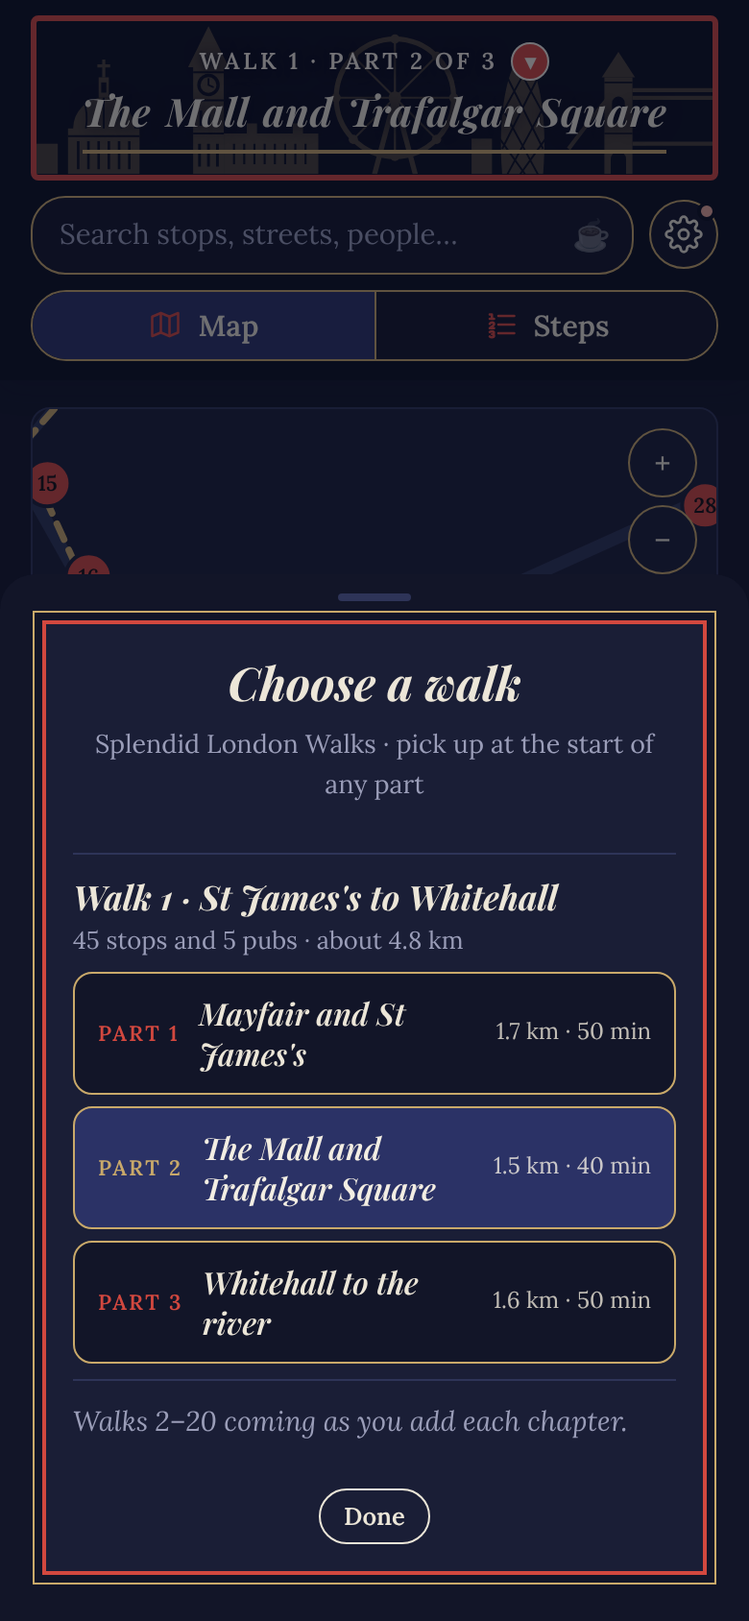
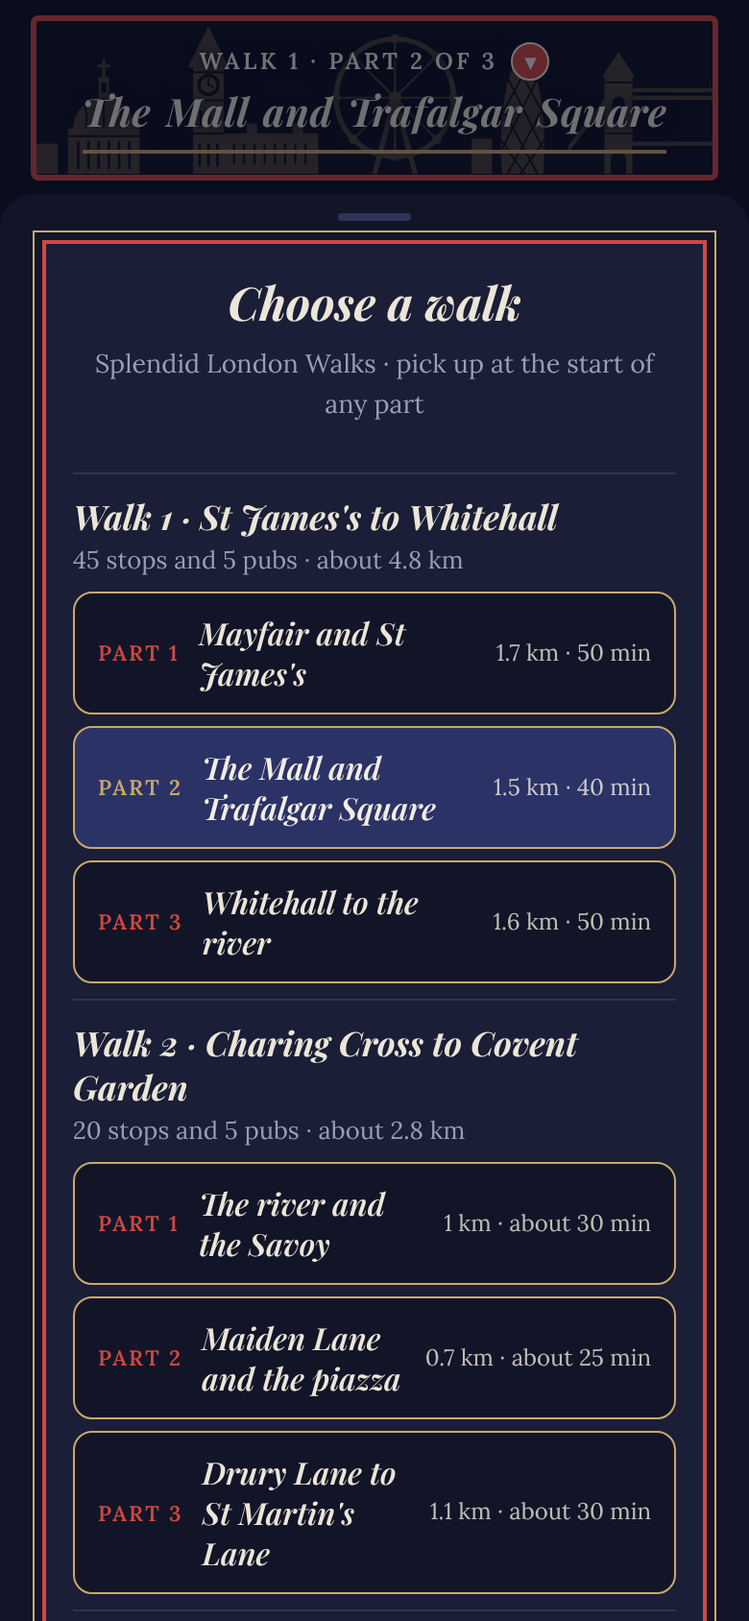
Walk 2: Charing Cross to Covent Garden, and switching between walks
Claude-Session: https://claude.ai/code/session_01EQX7ZzWVGJJBBEuSAX8vMB

Changed region(s): [[0.0308, 0.1232, 0.9846, 1.0], [0.7692, 0.5545, 0.8615, 0.5853], [0.8923, 0.5853, 0.9231, 0.6161]]

diff --git a/index.html b/index.html
@@ -719,14 +719,80 @@ const WALKS = [{
   ],
   parts:[{from:0,title:"Mayfair and St James's",km:1.7},{from:22,title:"The Mall and Trafalgar Square",km:1.5},{from:35,title:"Whitehall to the river",km:1.6}],
   route:[[51.50693,-0.14288],[51.50716,-0.14175],[51.5074,-0.14105],[51.508,-0.14112],[51.5091,-0.14198],[51.5099,-0.1425],[51.5103,-0.1428],[51.5105,-0.14252],[51.5107,-0.14255],[51.51128,-0.14045],[51.5109,-0.1402],[51.51045,-0.13965],[51.5103,-0.1395],[51.5101,-0.14],[51.50998,-0.14042],[51.50815,-0.13958],[51.50805,-0.1394],[51.5083,-0.1384],[51.50815,-0.13895],[51.50776,-0.13879],[51.50715,-0.13965],[51.50698,-0.1394],[51.50639,-0.13897],[51.50587,-0.1385],[51.50573,-0.13832],[51.50562,-0.13818],[51.505,-0.1385],[51.5054,-0.1378],[51.50572,-0.13772],[51.5054,-0.1378],[51.50595,-0.136],[51.5054,-0.1373],[51.50365,-0.1368],[51.505,-0.13345],[51.5058,-0.13165],[51.5063,-0.1318],[51.5069,-0.1321],[51.50705,-0.1323],[51.5075,-0.1311],[51.50781,-0.13045],[51.50835,-0.12925],[51.50776,-0.12792],[51.5077,-0.12725],[51.50775,-0.128],[51.50735,-0.1288],[51.5068,-0.12866],[51.5064,-0.1292],[51.5068,-0.12866],[51.50734,-0.12765],[51.50617,-0.1269],[51.50628,-0.126],[51.5063,-0.12575],[51.50545,-0.12565],[51.50535,-0.12665],[51.50455,-0.12645],[51.50482,-0.1264],[51.50486,-0.126],[51.5048,-0.1243],[51.50505,-0.1237],[51.5064,-0.1234],[51.50678,-0.123],[51.507,-0.1236],[51.50765,-0.1248],[51.50737,-0.12518],[51.50765,-0.1248],[51.50761,-0.12473]]
+},{
+  id:2,
+  title:"A Tremendous Ramble from Charing Cross to Covent Garden", short:"Charing Cross to Covent Garden",
+  pages:"38–50", start:"Charing Cross station, top of Villiers Street", end:"The Salisbury, St Martin's Lane",
+  theme:"Riverside gardens, the Savoy, theatreland and Covent Garden",
+  gaps:[],
+  stops:[
+   {k:"1",name:"York Place (Formerly Of Alley)",page:38,lat:51.50854,lng:-0.12455,photo:42,tags:"Villiers Street alley street sign Duke of Buckingham George Villiers",note:"A tiny alley with a curious sign. The Duke of Buckingham wanted every word of his name in the local streets, right down to 'of'."},
+   {k:"2",name:"Gordon's Wine Bar",page:38,lat:51.50794,lng:-0.12331,photo:42,tags:"wine bar cellars Kipling Free Vintners Embankment",note:"Said to be London's oldest wine bar, in candlelit cellars that were once a riverside warehouse. Kipling lodged upstairs."},
+   {k:"3",name:"Old street sign",page:39,lat:51.50800,lng:-0.12318,tags:"sign before 1917",note:"A street sign from before 1917, still hanging next to the modern one."},
+   {k:"4",name:"York House Watergate",page:39,lat:51.50814,lng:-0.12289,photo:42,tags:"watergate 1626 Duke of Buckingham river Thames",note:"A 1620s gateway that once opened straight onto the Thames, before the Embankment pushed the river back."},
+   {k:"5",name:"Victoria Embankment Gardens",page:39,lat:51.50822,lng:-0.12180,tags:"gardens Bazalgette Great Stink sewers Robert Burns Imperial Camel Corps",note:"Gardens on land reclaimed when Bazalgette built the sewers after the Great Stink. Look for Robert Burns and the soldier on a camel."},
+   {k:"6",name:"Cleopatra's Needle",page:39,lat:51.50851,lng:-0.12031,photo:42,tags:"obelisk Egypt sphinxes time capsule shrapnel camel benches",note:"An Egyptian obelisk far older than Cleopatra, brought to London in 1878 after a deadly storm at sea. The sphinxes face the wrong way."},
+   {k:"7",name:"Carting Lane sewer gas lamp",page:42,lat:51.50972,lng:-0.12069,photo:42,tags:"lamp sewer gas Joseph Webb Farting Lane",note:"London's last sewer gas lamp, still burning 'residual bio-gas'. The author calls it Farting Lane."},
+   {k:"8",name:"Savoy Steps",page:42,lat:51.51036,lng:-0.11972,tags:"Bob Dylan Subterranean Homesick Blues video Savoy Hill chapel",note:"The dead end where Bob Dylan flipped his word cards for 'Subterranean Homesick Blues', one of the first pop videos."},
+   {k:"9",name:"The Savoy",page:42,lat:51.51055,lng:-0.12060,photo:49,tags:"hotel Kaspar cat 13 afternoon tea drive on the right taxi",note:"The grand hotel with Kaspar, a wooden cat who joins tables of 13, and the one street in Britain where traffic drives on the right."},
+   {k:"10",name:"Bull Inn Court",page:43,lat:51.51008,lng:-0.12251,tags:"alley Vaudeville Theatre ghost William Terriss Adelphi",note:"A narrow alley off the Strand, said to be haunted by a murdered actor from the Adelphi."},
+   {k:"nellgwynne",pub:true,name:"The Nell Gwynne",page:43,lat:51.51019,lng:-0.12279,tags:"pub tiny theatrical Bull Inn Court",note:"A tiny, characterful pub named after Charles II's favourite. Mind the steep steps down to the loo."},
+   {k:"11",name:"Rules",page:43,lat:51.51083,lng:-0.12317,tags:"restaurant oldest 1798 game Downton Abbey Edward VII Lillie Langtry Maiden Lane",note:"London's oldest restaurant (1798): game birds, film crews, and Edward VII's secret door for Lillie Langtry."},
+   {k:"12",name:"St Paul's Church (the Actors' Church)",page:44,lat:51.51160,lng:-0.12350,photo:49,tags:"church Inigo Jones street performers piazza Punch and Judy My Fair Lady",note:"Inigo Jones's Actors' Church. Its blocked-up front is the backdrop to the famous street-performer pitch."},
+   {k:"13",name:"Russell House (43 King Street)",page:44,lat:51.51213,lng:-0.12393,photo:49,tags:"oldest building 1716 Middle Earth Club Bowie Marc Bolan T-Rex",note:"The oldest building in Covent Garden (1716). In the 1960s its club hosted Bowie, Pink Floyd and T-Rex."},
+   {k:"14",name:"Night watchman's hut",page:44,lat:51.51160,lng:-0.12425,photo:49,tags:"churchyard blue hut grave robbers resurrection men John Thaw bench",note:"The little blue hut where a watchman guarded the graves from body snatchers."},
+   {k:"15",name:"4 Henrietta Street",page:45,lat:51.51127,lng:-0.12301,tags:"Lawrence of Arabia RAF Biggles W E Johns Jane Austen market sandwich",note:"Where Lawrence of Arabia tried to join the RAF under a false name and was turned away by the author of Biggles."},
+   {k:"16",name:"Theatre Royal Drury Lane",page:46,lat:51.51285,lng:-0.12037,tags:"theatre steal my thunder John Dennis Nell Gwynne Charles II",note:"Where 'steal my thunder' was born. Charles II waited for Nell Gwynne in the pub across the road."},
+   {k:"nellolddrury",pub:true,name:"The Nell of Old Drury",page:46,lat:51.51261,lng:-0.12059,tags:"pub tunnel Nell Gwynne Catherine Street",note:"The small pub opposite the theatre, linked by legend to Nell Gwynne's secret tunnel."},
+   {k:"17",name:"Royal Opera House",page:46,lat:51.51292,lng:-0.12205,photo:49,tags:"opera ballet balcony limelight Macready Margot Fonteyn",note:"Home of the Royal Ballet and Opera, with a public balcony over the piazza. The origin of 'in the limelight'."},
+   {k:"18",name:"Bow Street Magistrates' Court",page:46,lat:51.51339,lng:-0.12179,tags:"court Henry Fielding Bow Street Runners bobbies Peelers police museum",note:"The old court where Henry Fielding founded the Bow Street Runners. Now a hotel with a small police museum."},
+   {k:"lambflag",pub:true,name:"The Lamb & Flag",page:49,lat:51.51173,lng:-0.12568,photo:49,tags:"pub oldest Rose Street Bucket of Blood Dryden Earl of Rochester",note:"One of London's oldest pubs, once known for bare-knuckle fights. The poet Dryden was beaten up in the alley outside."},
+   {k:"19",name:"Garrick Club",page:49,lat:51.51143,lng:-0.12634,tags:"club actors David Garrick Winnie-the-Pooh A A Milne",note:"The actors' club founded in 1831, made rich by Winnie-the-Pooh."},
+   {k:"20",name:"Goodwin's Court",page:49,lat:51.51095,lng:-0.12642,tags:"alley bow windows gas lamps Mary Poppins Harry Potter",note:"A 17th-century passage of bow windows and gas lamps, much loved by film crews."},
+   {k:"salisbury",pub:true,name:"The Salisbury",page:49,lat:51.51093,lng:-0.12724,tags:"pub Victorian St Martin's Lane Sean Connery finish",note:"An unspoilt Victorian pub where a young Sean Connery used to drink. The finish line."},
+   {k:"foggs",pub:true,name:"Mr Fogg's Tavern",page:50,lat:51.51100,lng:-0.12689,tags:"pub tavern St Martin's Lane sing-along",note:"The quirky tavern across the lane: the other way to finish."}
+  ],
+  steps:[
+   {to:"1",t:"Start on the Strand outside Charing Cross station and turn down Villiers Street, the street on the station's east side that slopes down towards the river. About 50 metres down, on your left, is a tiny alley whose sign reads 'York Place, formerly Of Alley'."},
+   {to:"2",t:"Carry on down Villiers Street about 110 metres, almost to Embankment station. Gordon's Wine Bar is on your left, through a narrow doorway with steps down to its cellars."},
+   {to:"3",t:"Before you go down, look at the street signs on the wall by Gordon's: next to the modern sign is an older one from before 1917."},
+   {to:"4",t:"Go down the steps beside Gordon's and through its outdoor seating. On your right is an opening into the gardens: the carved stone gateway in front of you is York House Watergate."},
+   {to:"5",t:"Walk east into the gardens along the main path, about 80 metres. Look out for the statue of Robert Burns and, further on, the soldier on a camel."},
+   {to:"6",t:"Continue to the far (east) end of the gardens, then cross the Embankment road at the lights to the river side. Cleopatra's Needle is the tall stone obelisk between two bronze sphinxes. You'll cross back afterwards.",d:1},
+   {to:"7",t:"Cross back over the Embankment to the east end of the gardens. Carting Lane is the narrow lane heading uphill beside the Savoy, about 100 metres from the Needle. A few steps up, on your left, is a tall, thick-shafted lamppost: the sewer gas lamp."},
+   {to:"8",t:"Keep going up Carting Lane and turn right into Savoy Way, a short lane leading to Savoy Hill, about 100 metres in all. At the end is the little Savoy Chapel, and beside it the dead end called Savoy Steps."},
+   {to:"9",t:"Turn left at the end of Savoy Hill up to the Strand, then left along the Strand, about 100 metres. The Savoy is set back on your left, at the end of Savoy Court, the short street with the hotel's famous steel sign over the entrance."},
+   {to:"10",t:"Cross the Strand and walk west, towards Trafalgar Square, about 140 metres. Just past the Vaudeville Theatre, turn right into Bull Inn Court, a narrow alley."},
+   {to:"nellgwynne",t:"The Nell Gwynne is a few steps up the alley, on your left."},
+   {to:"11",t:"Carry on up the alley to Maiden Lane. Rules, at number 35, is just to your left."},
+   {to:"12",t:"Walk east along Maiden Lane, back past the alley, to the end (about 100 metres) and turn left up Southampton Street. At the top, cross into the piazza and head left to its far (west) side. The columned front of St Paul's Church, with the street performers below it, is in front of you."},
+   {to:"13",t:"Go round to the right-hand corner of the piazza and into King Street. Russell House, number 43, is the tall brick house on the corner."},
+   {to:"14",t:"Walk west along King Street, about 60 metres. Just before number 9, go through the gate on your left into the churchyard garden. The little blue watchman's hut is inside."},
+   {to:"15",t:"Leave the churchyard by the gate on the opposite side and turn left into Henrietta Street. Walk about 90 metres; number 4 is near the piazza end."},
+   {to:"16",t:"Go through the covered market to its far (east) side and carry on along Russell Street, about 250 metres. The Theatre Royal Drury Lane is the big columned theatre where Russell Street meets Catherine Street. You'll come back this way.",d:1},
+   {to:"nellolddrury",t:"The Nell of Old Drury is the small pub right across Catherine Street from the theatre."},
+   {to:"17",t:"Walk back along Russell Street towards the market, about 100 metres, and turn right up Bow Street. The Royal Opera House, with its tall columns, is on your left."},
+   {to:"18",t:"Look across Bow Street from the Opera House: the old magistrates' court is the stone building opposite, now a hotel with a small police museum.",v:1},
+   {to:"lambflag",t:"Turn left into Floral Street, which runs past the side of the Opera House, and follow it about 300 metres. Just before the end, turn left into Rose Alley; the Lamb & Flag is a few steps along. You'll come back out onto Floral Street.",d:1},
+   {to:"19",t:"Back on Floral Street, carry on to the end, where it meets Garrick Street. The Garrick Club is the grand building just to your left."},
+   {to:"20",t:"Walk down Garrick Street, turn right into New Row, then left into Bedfordbury, about 120 metres in all. Goodwin's Court is the narrow passage on your right, with old bow windows and gas lamps."},
+   {to:"salisbury",t:"Walk through Goodwin's Court to St Martin's Lane. The Salisbury is just across the road."},
+   {to:"foggs",t:"Or finish at Mr Fogg's Tavern, on the same side of St Martin's Lane as Goodwin's Court, a few doors along."}
+  ],
+  parts:[{from:0,title:"The river and the Savoy",km:1.0},{from:9,title:"Maiden Lane and the piazza",km:0.7},{from:16,title:"Drury Lane to St Martin's Lane",km:1.1}],
+  route:[[51.50890,-0.12500],[51.50854,-0.12455],[51.50800,-0.12345],[51.50795,-0.12318],[51.50806,-0.12293],[51.50822,-0.12180],[51.50850,-0.12090],[51.50835,-0.12050],[51.50851,-0.12031],[51.50865,-0.12060],[51.50930,-0.12090],[51.50972,-0.12069],[51.50995,-0.12060],[51.51005,-0.11995],[51.51036,-0.11972],[51.51060,-0.11960],[51.51135,-0.11960],[51.51090,-0.12070],[51.51055,-0.12060],[51.51090,-0.12070],[51.51008,-0.12251],[51.51019,-0.12265],[51.51060,-0.12285],[51.51080,-0.12317],[51.51060,-0.12285],[51.51043,-0.12215],[51.51110,-0.12240],[51.51150,-0.12265],[51.51160,-0.12340],[51.51205,-0.12360],[51.51210,-0.12390],[51.51195,-0.12455],[51.51165,-0.12440],[51.51160,-0.12425],[51.51125,-0.12430],[51.51127,-0.12301],[51.51165,-0.12250],[51.51200,-0.12170],[51.51230,-0.12120],[51.51280,-0.12045],[51.51261,-0.12059],[51.51230,-0.12120],[51.51245,-0.12185],[51.51292,-0.12205],[51.51330,-0.12218],[51.51177,-0.12601],[51.51168,-0.12595],[51.51173,-0.12568],[51.51168,-0.12595],[51.51177,-0.12601],[51.51172,-0.12630],[51.51143,-0.12634],[51.51125,-0.12645],[51.51118,-0.12660],[51.51095,-0.12650],[51.51097,-0.12695],[51.51093,-0.12724],[51.51100,-0.12689]]
 }];
-const COMING = 19;
+const COMING = 20 - WALKS.length;
 /* Coffee: a quiet line on the few stops where good cafés cluster (4.5+ on Google when checked, Nov 2026). Links open live Google Maps. */
 const COFFEE = {1:{
   "13":{t:"Good coffee right here", at:[51.5082,-0.1388]},
   "30":{t:"Good coffee nearby", at:[51.5079,-0.1328]},
   "34":{t:"Last good coffee before Whitehall", at:[51.5095,-0.1276]},
   "45":{t:"Good coffee right here", at:[51.5070,-0.1229]}
+}, 2:{
+  "1":{t:"Good coffee right here", at:[51.50847,-0.12472]},
+  "11":{t:"Good coffee just ahead", at:[51.51110,-0.12244]},
+  "19":{t:"Good coffee just ahead", at:[51.51116,-0.12652]}
 }};
 const coffeeFor = k => (COFFEE[walk.id]||{})[k];
 
@@ -764,11 +830,33 @@ const STREETS = [
  ["Craven St",[[51.5083,-0.1259],[51.5070,-0.1235]]],
  ["Strand",[[51.5081,-0.1268],[51.5087,-0.1253],[51.5105,-0.1215]],3],
  ["Victoria Embankment",[[51.5010,-0.1236],[51.5049,-0.1231],[51.5075,-0.1221],[51.5095,-0.1196]],3],
- ["Horse Guards Rd",[[51.5062,-0.1296],[51.5020,-0.1293]]]
+ ["Horse Guards Rd",[[51.5062,-0.1296],[51.5020,-0.1293]]],
+ ["Villiers St",[[51.5089,-0.1250],[51.5081,-0.1240],[51.5076,-0.1232]]],
+ ["Carting Ln",[[51.5086,-0.1206],[51.5103,-0.1203]],1],
+ ["Savoy Way",[[51.5100,-0.1203],[51.5101,-0.1197]],1],
+ ["Savoy Hill",[[51.5101,-0.1197],[51.5114,-0.1194]],1],
+ ["Savoy Ct",[[51.5110,-0.1207],[51.5105,-0.1206]],1],
+ ["Bull Inn Ct",[[51.5101,-0.1225],[51.5106,-0.1228]],1],
+ ["Maiden Ln",[[51.5108,-0.1235],[51.5104,-0.1222]]],
+ ["Southampton St",[[51.5104,-0.1222],[51.5115,-0.1226]]],
+ ["Henrietta St",[[51.5112,-0.1243],[51.5113,-0.1230]]],
+ ["King St",[[51.5120,-0.1250],[51.5121,-0.1236]]],
+ ["Russell St",[[51.5116,-0.1225],[51.5128,-0.1204]]],
+ ["Catherine St",[[51.5135,-0.1205],[51.5115,-0.1195]]],
+ ["Bow St",[[51.5125,-0.1215],[51.5140,-0.1220]]],
+ ["Floral St",[[51.5133,-0.1222],[51.5124,-0.1240],[51.5118,-0.1260],[51.5116,-0.1264]]],
+ ["Rose St",[[51.5118,-0.1260],[51.5117,-0.1257]],1],
+ ["Garrick St",[[51.5116,-0.1264],[51.5111,-0.1264],[51.5106,-0.1258]]],
+ ["New Row",[[51.5110,-0.1263],[51.5112,-0.1268]],1],
+ ["Bedfordbury",[[51.5112,-0.1268],[51.5096,-0.1264]],1],
+ ["Goodwin's Ct",[[51.5110,-0.1264],[51.5110,-0.1270]],1],
+ ["St Martin's Ln",[[51.5096,-0.1270],[51.5125,-0.1275]],3],
+ ["Covent Garden Piazza",[[51.5116,-0.1234],[51.5121,-0.1224]],1]
 ];
 const AREAS = [
  ["park","Green Park",[[51.5069,-0.1430],[51.5070,-0.1414],[51.5032,-0.1405],[51.5016,-0.1412],[51.5040,-0.1475],[51.5058,-0.1452]]],
  ["park","St James's Park",[[51.5034,-0.1366],[51.5047,-0.1334],[51.5056,-0.1316],[51.5061,-0.1297],[51.5020,-0.1295],[51.5010,-0.1340],[51.5014,-0.1410]]],
+ ["park","Victoria Embankment Gdns",[[51.5079,-0.1235],[51.5087,-0.1205],[51.5084,-0.1203],[51.5077,-0.1232]]],
  ["park","Whitehall Gdns",[[51.5050,-0.1239],[51.5068,-0.1236],[51.5066,-0.1228],[51.5050,-0.1232]]],
  ["water","River Thames",[[51.5010,-0.1229],[51.5049,-0.1224],[51.5075,-0.1213],[51.5100,-0.1185],[51.5100,-0.1150],[51.5010,-0.1150]]]
 ];
@@ -782,7 +870,7 @@ const store = {
 };
 function toast(msg){ const t=document.createElement('div'); t.className='toast'; t.textContent=msg; document.body.appendChild(t); setTimeout(()=>t.remove(),2600); }
 
-let walk = WALKS[0];
+let walk = WALKS.find(w=>w.id===store.get('walkid',1)) || WALKS[0];
 let view = 'map';
 let selected = store.get('sel:'+walk.id, "1");
 let walkIdx = store.get('walkstep:'+walk.id, 0);
@@ -796,7 +884,7 @@ const label = s => s.pub ? 'P' : s.k;
 let db=null, user=null, uid=null;
 
 /* ---------- Book text (private to the signed-in viewer) ---------- */
-let book = store.get('book:w'+1, {});   // {stopKey: text}
+let book = store.get('book:w'+walk.id, {});   // {stopKey: text}
 const bookRef = () => (db && uid) ? db.doc(`data/users/${uid}/book-w${walk.id}`) : null;
 function loadBook(){
   const ref=bookRef(); if(!ref){ renderAll(); return; }
@@ -832,7 +920,7 @@ async function loadProgress(){
 }
 
 /* ---------- Book photos (private to the signed-in viewer) ---------- */
-const BOOK_PHOTO_PAGES = {1:{22:["2","6","13","16","18","19"],25:["22","23","26","32","33","35"],32:["36","36","37","43","sherlock","ship"]}};
+const BOOK_PHOTO_PAGES = {1:{22:["2","6","13","16","18","19"],25:["22","23","26","32","33","35"],32:["36","36","37","43","sherlock","ship"]},2:{42:["1","2","4","6","6","7"],49:["9","12","13","14","17","lambflag"]}};
 let bphotos = {};   // {stopKey: [{src, page}]}
 const photoDocId = k => `bphoto-w${walk.id}-${k}`;
 function loadPhotos(){
@@ -911,6 +999,12 @@ const BOOK_MARKS = {1:{
  "37":"KING CHARLES I","38":"CHARING CROSS STATION","clarence":"Clarence","39":"GREAT SCOTLAND YARD",
  "40":"BANQUETING HOUSE","41":"HOUSEHOLD CAVALRY MUSEUM","42":"DUKE OF DEVONSHIRE","43":"MINISTRY OF DEFENCE",
  "44":"WHITEHALL GARDENS","45":"CABMEN'S SHELTER","sherlock":"Sherlock Holmes","ship":"Ship and Shovell"
+}, 2:{
+ "1":"YORK PLACE","2":"GORDON'S WINE BAR","3":"OLD STREET SIGN","4":"YORK HOUSE WATERGATE","5":"VICTORIA EMBANKMENT GARDENS",
+ "6":"CLEOPATRA'S NEEDLE","7":"CARTING LANE","8":"SAVOY STEPS","9":"SAVOY HOTEL","10":"BULL INN COURT","nellgwynne":"Nell Gwynne",
+ "11":"RULES","12":"ST PAUL'S CHURCH","13":"RUSSELL HOUSE","14":"NIGHT WATCHMAN'S HUT","15":"4 HENRIETTA STREET",
+ "16":"THE THEATRE ROYAL DRURY LANE","nellolddrury":"Nell of Old Drury","17":"ROYAL OPERA HOUSE","18":"BOW STREET MAGISTRATES",
+ "lambflag":"Lamb and Flag","19":"GARRICK CLUB","20":"GOODWIN'S COURT","salisbury":"The Salisbury","foggs":"Mr Fogg's"
 }};
 const DIR_START = /^(Turn|Now|Walk|Head|Continue|Cross|Keep|Soon|Next|Just|Still|A little|At the|On your|Right opposite|Down at|Back|You|This is|Okay|Gosh|Up the|Further|Carry|Go|Quite near)\b/;
 
@@ -943,7 +1037,7 @@ function splitBook(raw, order, marks){
       const pi = sentList.indexOf(b); if (pi <= 0) break;
       const pb = sentList[pi - 1], prev = norm.slice(pb, b).trim();
       if (pb <= found[keys[idx - 1]]) break;
-      if (prev.length < 170 && DIR_START.test(prev)) b = pb; else break;
+      if (prev.length < 170 && DIR_START.test(prev) && (!/^(This is|You)\b/.test(prev) || /\b(left|right|opposite|across|ahead|corner|turn|walk|cross|here|along)\b/i.test(prev))) b = pb; else break;
     }
     return b;
   });
@@ -1397,8 +1491,8 @@ function renderSteps(){
 function renderBanner(){ const pt=partOf(walkIdx); $('#bkick').textContent=`Walk ${walk.id} · Part ${pt.n} of ${pt.total}`; $('#btitle').textContent=pt.title; $('#banner').setAttribute('aria-label',`Walk ${walk.id}, part ${pt.n} of ${pt.total}: ${pt.title}. Choose a walk or part`); }
 function renderWalkList(){ const cur=partOf(walkIdx).n;
   $('#walklist').innerHTML=WALKS.map(w=>`<div class="wk"><b>Walk ${w.id} · ${esc(w.short||w.title)}</b><small>${w.stops.filter(s=>!s.pub).length} stops and ${w.stops.filter(s=>s.pub).length} pubs · about ${(w.parts||[]).reduce((a,p)=>a+(p.km||0),0).toFixed(1)} km</small>
-    ${(w.parts||[]).map((p,ix)=>{ const pp=partOf(p.from); return `<button type="button" class="pt ${w.id===walk.id&&ix+1===cur?'on':''}" data-act="gopart" data-i="${p.from}"><span class="n">Part ${ix+1}</span><i>${esc(p.title)}</i><span class="m">${p.km} km · ${partMinutes(pp)} min</span></button>`; }).join('')}</div>`).join('')
-    + `<div class="soon">Walks 2–20 coming as you add each chapter.</div>`; }
+    ${(w.parts||[]).map((p,ix)=>{ const here=w.id===walk.id; const mins=here?partMinutes(partOf(p.from)):Math.round((p.km*13+((w.parts[ix+1]?w.parts[ix+1].from:w.steps.length)-p.from)*2)/5)*5; return `<button type="button" class="pt ${here&&ix+1===cur?'on':''}" data-act="gopart" data-w="${w.id}" data-i="${p.from}"><span class="n">Part ${ix+1}</span><i>${esc(p.title)}</i><span class="m">${p.km} km · ${here?'':'about '}${mins} min</span></button>`; }).join('')}</div>`).join('')
+    + (COMING>0?`<div class="soon">Walks ${WALKS.length+1}–20 coming as you add each chapter.</div>`:''); }
 function openWalks(){ renderWalkList(); $('#walksheet').hidden=false; document.body.style.overflow='hidden'; setTimeout(()=>{ const on=document.querySelector('#walklist .pt.on'); (on||document.querySelector('#walklist .pt'))?.focus(); },50); }
 function closeWalks(){ $('#walksheet').hidden=true; document.body.style.overflow=''; $('#banner').focus(); }
 function renderNav(){
@@ -1477,7 +1571,7 @@ document.addEventListener('click',async e=>{
   else if(a==='jumpdir'){ const box=b.closest('.card')?.querySelector('.direction'); if(box){ box.scrollIntoView({behavior:'smooth',block:'center'}); box.classList.remove('flash'); void box.offsetWidth; box.classList.add('flash'); } }
   else if(a==='loadbackup'){ $('#backupfile').value=''; $('#backupfile').click(); }
   else if(a==='closewalks'){ closeWalks(); }
-  else if(a==='gopart'){ const i=+b.dataset.i; closeWalks(); setView('map'); walkIdx=i; selectStop(walk.steps[i].to,true); window.scrollTo({top:0}); }
+  else if(a==='gopart'){ const i=+b.dataset.i, wid=+(b.dataset.w||walk.id); if(wid!==walk.id){ store.set('walkid',wid); store.set('walkstep:'+wid,i); store.set('sel:'+wid,WALKS.find(w=>w.id===wid).steps[i].to); store.set('progat:'+wid,Date.now()); store.set('view','map'); history.replaceState(null,'','#map'); location.reload(); return; } closeWalks(); setView('map'); walkIdx=i; selectStop(walk.steps[i].to,true); window.scrollTo({top:0}); }
   else if(a==='readtoggle'){ const open=!openGuideText.has(k); open?openGuideText.add(k):openGuideText.delete(k);
     const box=b.closest('.audiobox'); const body=box&&box.querySelector('.gbbody'); if(body){ body.hidden=!open; if(open){ const sp=body.querySelector('span.now'); if(sp) sp.scrollIntoView({block:'center'}); } }
     b.setAttribute('aria-expanded',open); b.textContent=readBtnHTML(open); }

diff --git a/tests/walk2.py b/tests/walk2.py
@@ -1,0 +1,31 @@
+# Walk 2: switch from the walk list, sort the chapter text, check the split, parts, map and switch back.
+import sys, os
+from playwright.sync_api import sync_playwright
+app=os.path.abspath(sys.argv[1]); txt=open(sys.argv[2]).read() if len(sys.argv)>2 and os.path.exists(sys.argv[2]) else None
+with sync_playwright() as p:
+    b=p.chromium.launch(executable_path='/usr/bin/google-chrome',args=['--no-sandbox'])
+    pg=b.new_context(viewport={'width':390,'height':844},device_scale_factor=1,is_mobile=True,has_touch=True).new_page(); errs=[]; pg.on('pageerror',lambda e:errs.append(str(e)))
+    pg.goto('file://'+app); pg.wait_for_timeout(900)
+    pg.locator('#banner').click(); pg.wait_for_timeout(300)
+    print('list:', pg.locator('#walklist').inner_text().replace('\n',' | ')[:400])
+    pg.locator('#walklist .pt[data-w="2"]').first.click(); pg.wait_for_timeout(1200)
+    print('now walk', pg.evaluate('walk.id'), 'step', pg.evaluate('walkIdx'), pg.locator('#bkick').inner_text(), '/', pg.locator('#btitle').inner_text())
+    assert pg.evaluate('walk.id')==2
+    print('parts', pg.evaluate("walk.parts.map(x=>{const p=partOf(x.from);return [p.n,p.title,p.from,p.to,partMinutes(p)]})"))
+    # steps reference real stops, every stop has a step
+    print('check', pg.evaluate("[walk.steps.every(s=>stopBy(s.to)), walk.stops.every(s=>stepFor(s.k)>=0), walk.steps.length, walk.stops.length]"))
+    if txt:
+        pg.locator('#guidebtn').click(); pg.locator('#bookbtn').click(); pg.locator('#bookpaste').fill(txt); pg.locator('#booksort').click(); pg.wait_for_timeout(600)
+        pg.locator('#guideclose').click()
+        rows=pg.evaluate("walk.steps.map(s=>{const t=bookFor(s.to); const bp=bookParts(s.to); return [s.to, t.length, (bp.lead||'').slice(0,70), t.slice(0,50)]})")
+        for r in rows: print('  ',r)
+        print('empty:', [r[0] for r in rows if r[1]==0])
+        print('end part1:', pg.evaluate("buildChunks('9').chunks.slice(-1)[0].slice(0,100)"))
+    print('route0', pg.evaluate("decodeURIComponent(routeInfo(0).url)")[:300])
+    pg.evaluate('window.scrollTo(0,0)'); pg.wait_for_timeout(500); pg.screenshot(path="W2_card.png"); pg.locator("#tab-steps").click(); pg.wait_for_timeout(400); pg.screenshot(path="W2_steps.png", full_page=True); pg.locator("#tab-map").click(); pg.wait_for_timeout(300)
+    # back to walk 1
+    pg.locator('#banner').click(); pg.wait_for_timeout(300); pg.locator('#walklist .pt[data-w="1"]').first.click(); pg.wait_for_timeout(1200)
+    print('back to walk', pg.evaluate('walk.id'), 'book keys w1', pg.evaluate("Object.keys(book).length"))
+    assert pg.evaluate('walk.id')==1
+    print('errors', errs); assert not errs
+    b.close()
